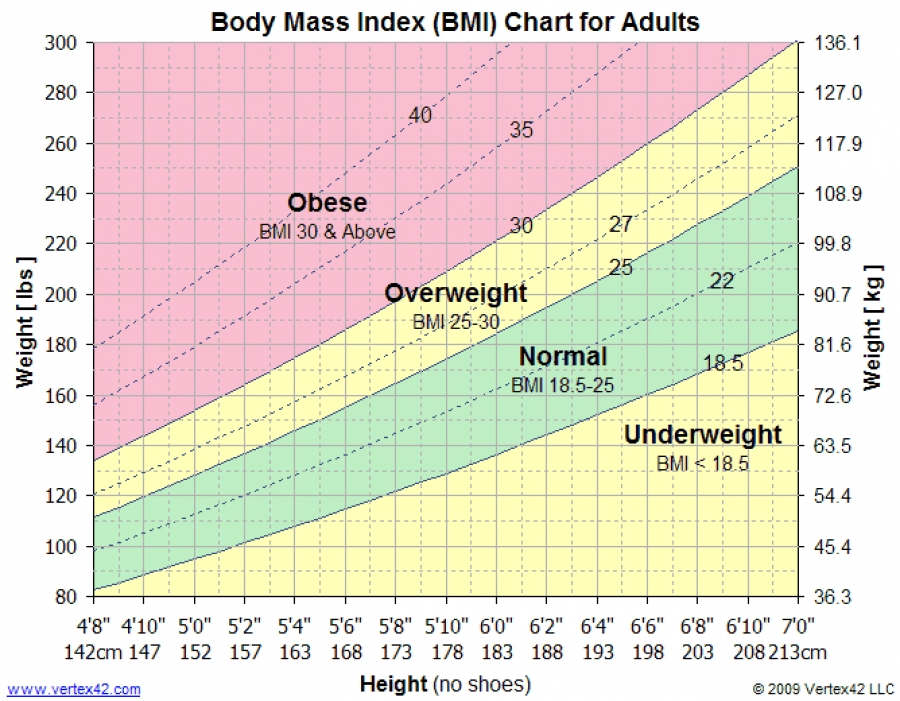
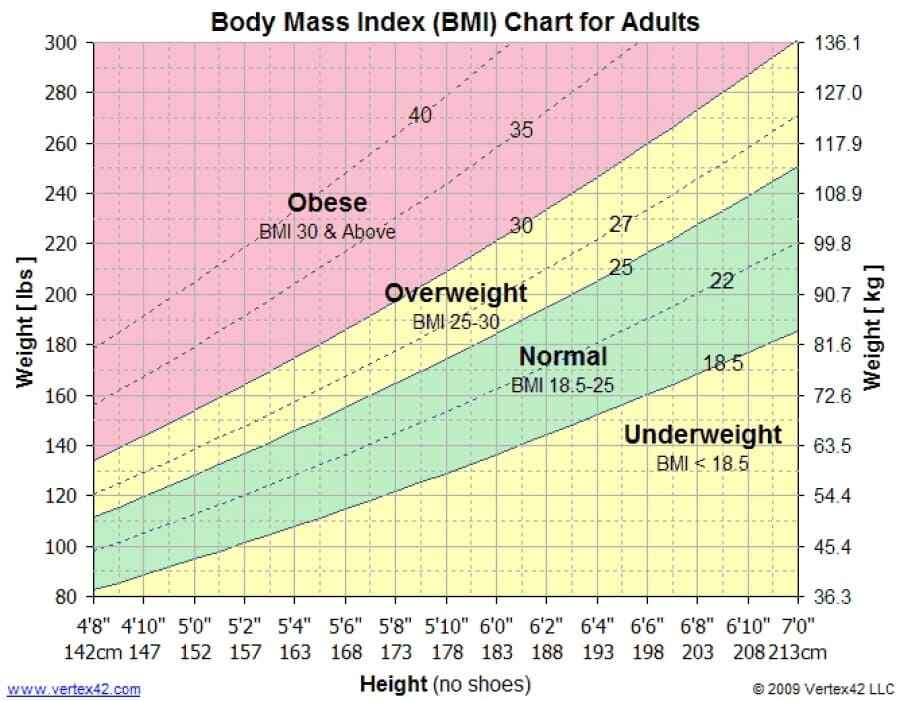
add my title and compress the chart image

diff --git a/index.html b/index.html
@@ -58,9 +58,10 @@
                     <button type="button" class="btn-close" data-bs-dismiss="modal" aria-label="Close"></button>
                 </div>
                 <div class="modal-body">
-                   <img src="./assets/chart.jpg" alt="BMI Chart" title="BMI Chart" class="chartImg">
+                    <img src="./assets/chart.jpg" alt="BMI Chart" title="BMI Chart" class="chartImg">
                 </div>
-                <div class="modal-footer">
+                <div class="modal-footer d-flex justify-content-between">
+                    <span>Made by <strong>Khizar Wakeel</strong></span>
                     <button type="button" class="btn btn-dark" data-bs-dismiss="modal">Close</button>
                 </div>
             </div>
